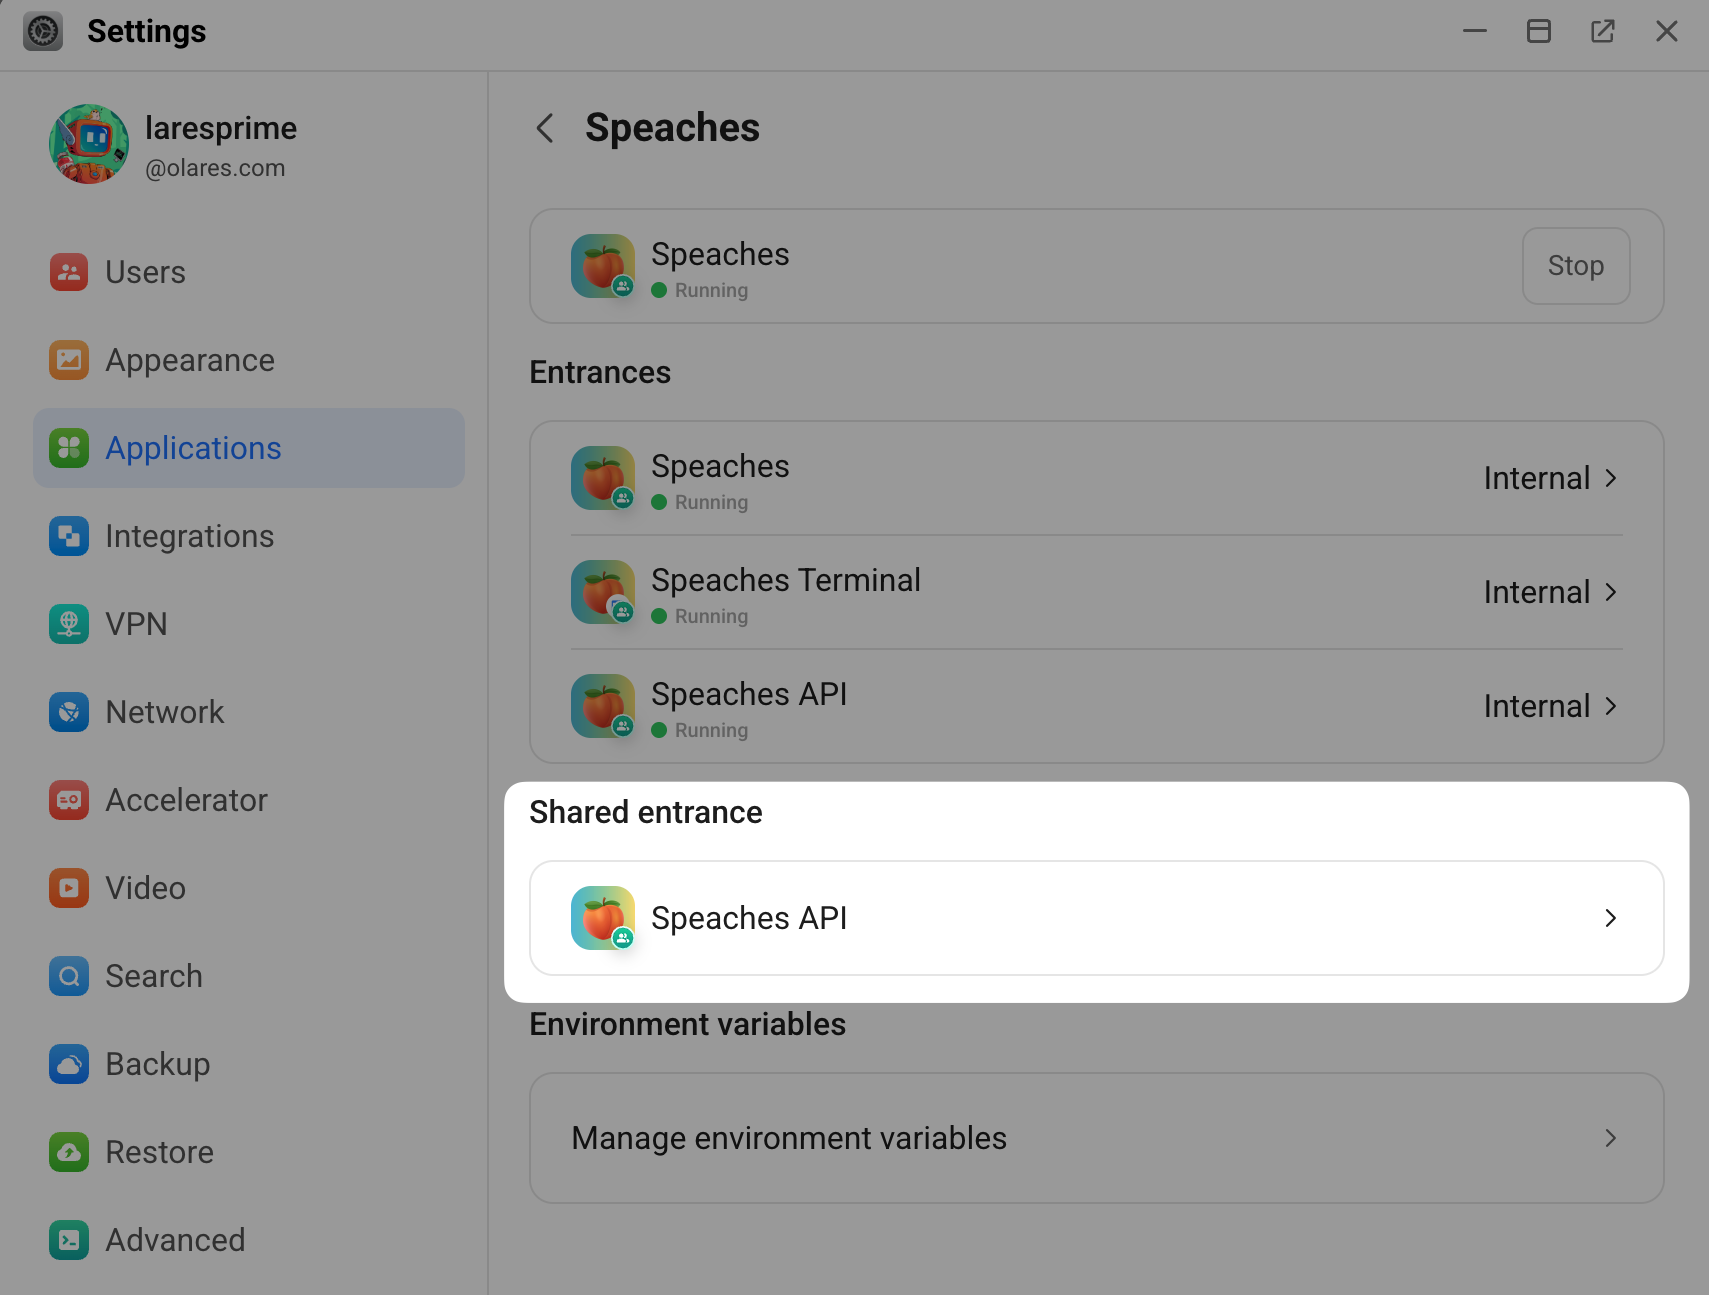
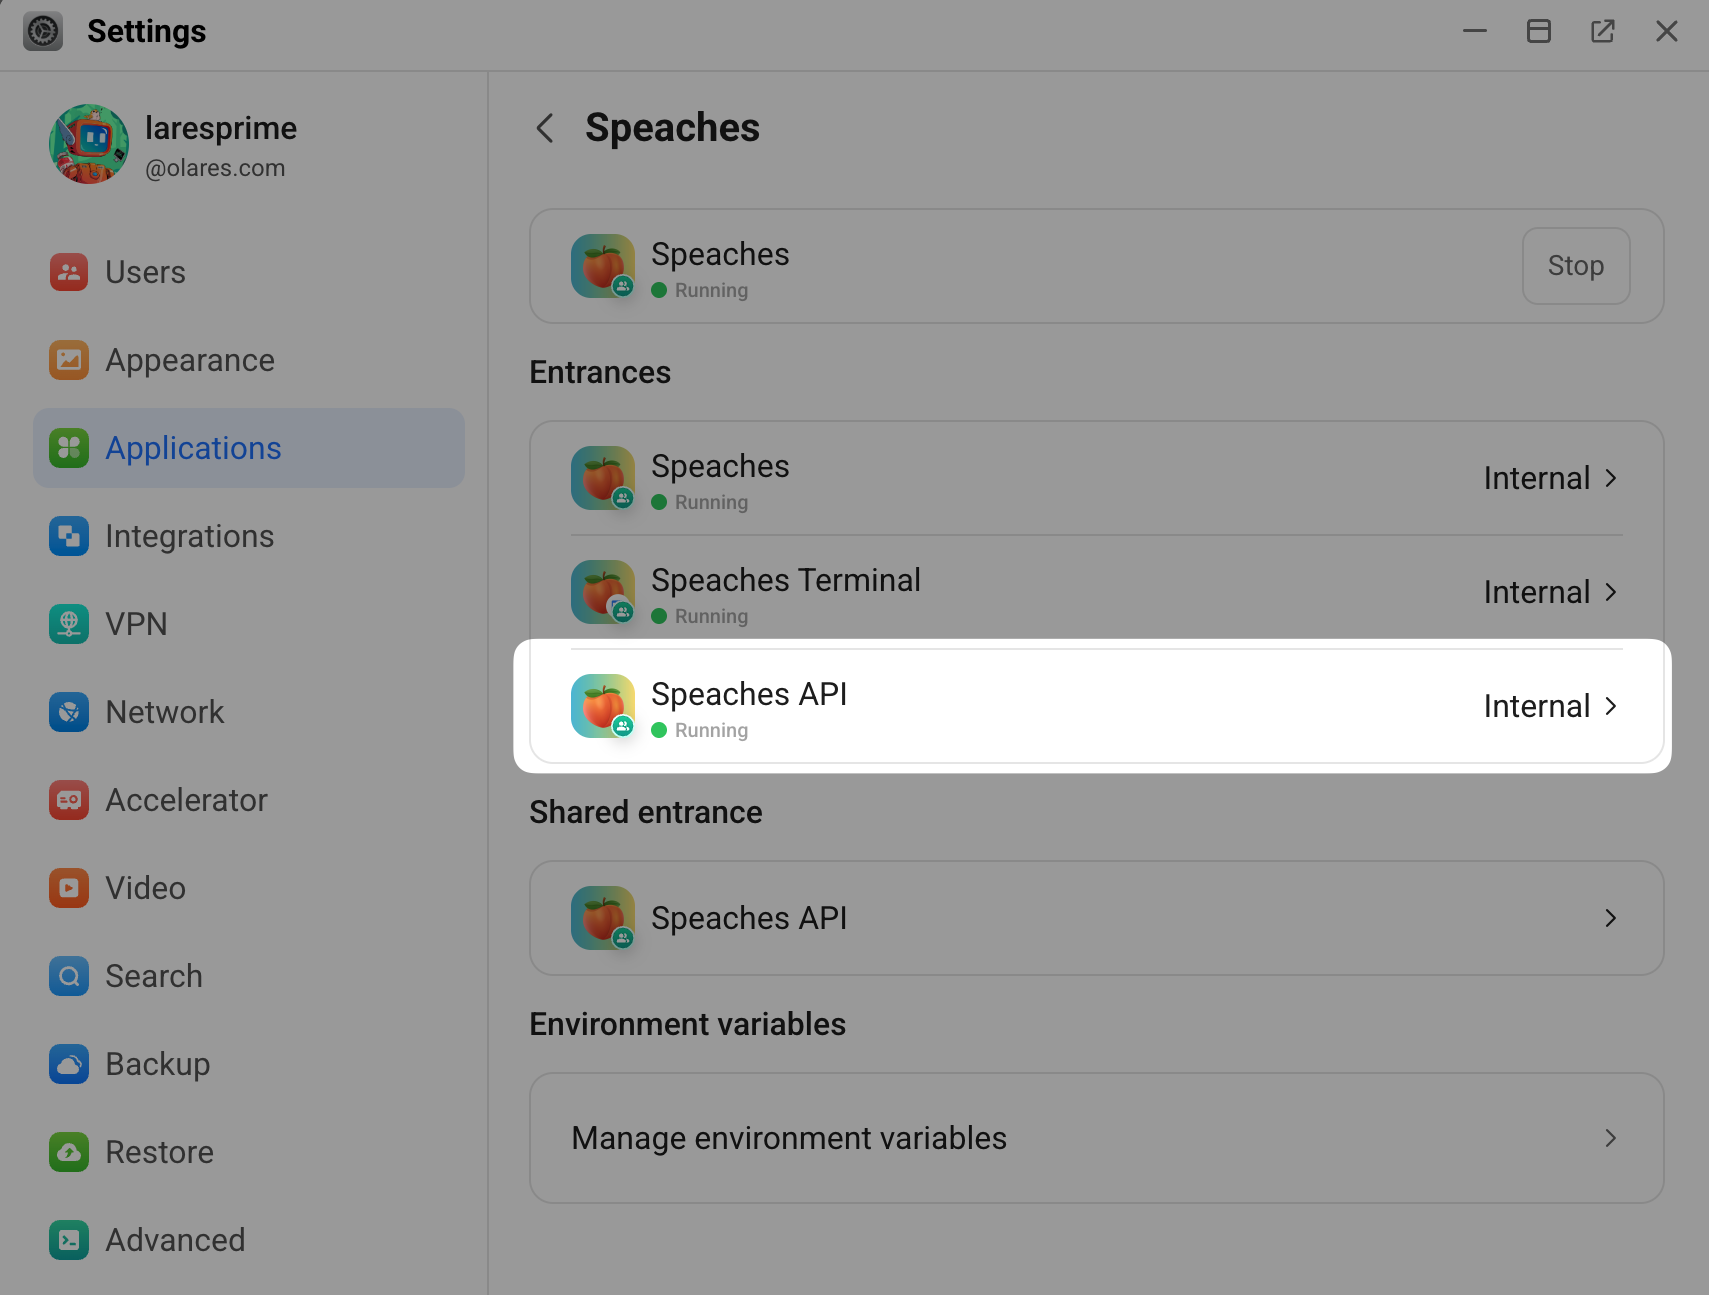
update audio connection

Changed region(s): [[0.2791, 0.4942, 0.9924, 0.7722]]

diff --git a/docs/use-cases/openwebui-audio.md b/docs/use-cases/openwebui-audio.md
@@ -33,14 +33,14 @@ Before you begin, ensure you have the following in place:
 
 ## Retrieve Speaches configuration details
 
-To link Open WebUI and Speaches, you must obtain the Speaches shared endpoint URL and identify the specific STT and TTS model names used within Speaches.
+To link Open WebUI and Speaches, you must obtain the Speaches endpoint URL and identify the specific STT and TTS model names used within Speaches.
 
-### Get the shared endpoint URL
+### Get the Speaches endpoint URL
 
 1. Open Olares Settings, and then go to **Applications** > **Speaches**.
-2. In **Shared entrances**, click **Speaches API**, and then note down the endpoint URL.
+2. In **Entrances**, click **Speaches API**, and then note down the endpoint URL.
 
-   For example, `http://7c6f50e7.shared.olares.com`.
+   For example, `https://7b3172692.laresprime.olares.com`.
 
    ![Speaches shared entrance](/images/manual/use-cases/openwebui-speaches-shared-entrance1.png#bordered){width=70%}
 
@@ -60,19 +60,19 @@ To link Open WebUI and Speaches, you must obtain the Speaches shared endpoint UR
 3. In the **Speech-to-Text** section, specify the following settings:
 
    - **Speech-to-Text Engine**: Select **OpenAI**.
-   - **API Base URL**: Enter the Speaches shared endpoint URL and append `/v1` to the end. For example, `http://7c6f50e7.shared.olares.com/v1`.
+   - **API Base URL**: Enter the Speaches endpoint URL and append `/v1` to the end. For example, `https://7b3172691.laresprime.olares.com/v1`.
    - **API Key**: Enter any text. Do not leave it empty.
    - **STT Model**: Enter the STT model name you noted down earlier. That is `Systran/faster-whisper-small`.
 
 4. In the **Text-to-Speech** section, specify the following settings:
 
    - **Text-to-Speech Engine**: Select **OpenAI**.
-   - **API Base URL**: Enter the Speaches shared endpoint URL and append `/v1` to the end. For example, `http://7c6f50e7.shared.olares.com/v1`.
+   - **API Base URL**: Enter the Speaches endpoint URL and append `/v1` to the end. For example, `https://7b3172691.laresprime.olares.com/v1`.
    - **API Key**: Enter any text. Do not leave it empty.
    - **TTS Voice**: Enter the voice name you noted down earlier. For example, `am_eric`.
    - **TTS Model**: Enter the TTS model name you noted earlier. That is, `speaches-ai/Kokoro-82M-v1.0-ONNX`.
 
-   ![Audio settings in Open WebUI](/images/manual/use-cases/openwebui-audio-settings1.png#bordered)
+   ![Audio settings in Open WebUI](/images/manual/use-cases/openwebui-audio-settings2.png#bordered)
 
 5. Click **Save**.
 

diff --git a/docs/use-cases/openwebui-multiuser.md b/docs/use-cases/openwebui-multiuser.md
@@ -37,7 +37,7 @@ By default, Open WebUI restricts access to the Olares owner. To grant access to 
 1. Open Olares Settings, and then go to **Applications** > **Open WebUI** > **Entrances** > **Open WebUI**.
 2. Change the **Authentication level** from **Private** to **Public**, and then click **Submit**.
    
-   ![Entrance public](/images/manual/use-cases/openwebui-entrance-public.png#bordered){width=70%}
+   ![Entrance public](/images/manual/use-cases/openwebui-entrance-public1.png#bordered){width=70%}
 
 :::warning Security notice
 Setting the entrance to **Public** exposes Open WebUI directly to the internet. The Open WebUI account system becomes your primary protection. Ensure the admin account and all sub-user accounts use strong passwords.

diff --git a/docs/zh/use-cases/openwebui-multiuser.md b/docs/zh/use-cases/openwebui-multiuser.md
@@ -41,7 +41,7 @@ doc_updated: "2026-07-30"
 1. 打开 Olares 设置，然后前往**应用** > **Open WebUI** > **入口** > **Open WebUI**。
 2. 将**认证级别**从**私有**改为**公开**，然后点击**提交**。
 
-   ![Entrance public](/images/manual/use-cases/openwebui-entrance-public.png#bordered){width=70%}
+   ![Entrance public](/images/manual/use-cases/openwebui-entrance-public1.png#bordered){width=70%}
 
 :::warning 安全提示
 将入口设置为**公开**会把 Open WebUI 直接暴露到互联网。此时 Open WebUI 的账号系统会成为主要保护措施。需确保管理员账号和所有子用户账号都使用强密码。
